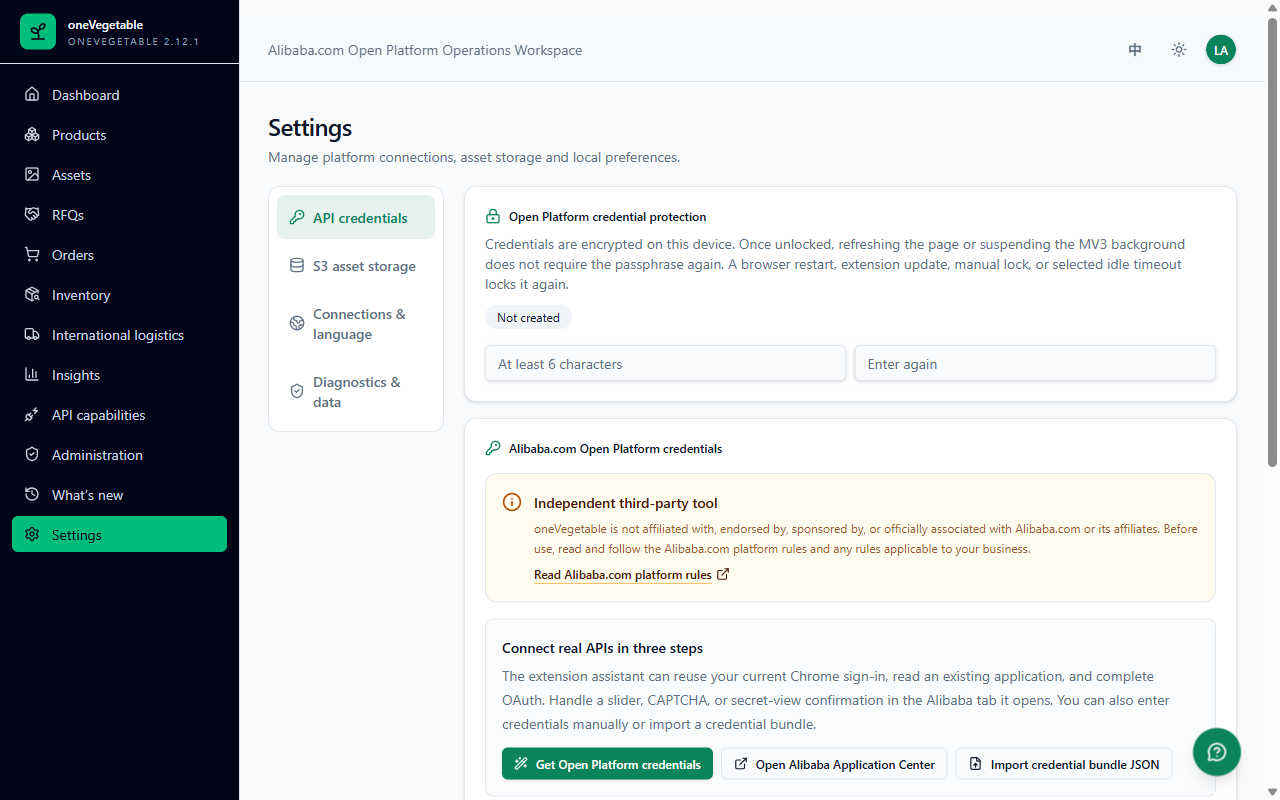
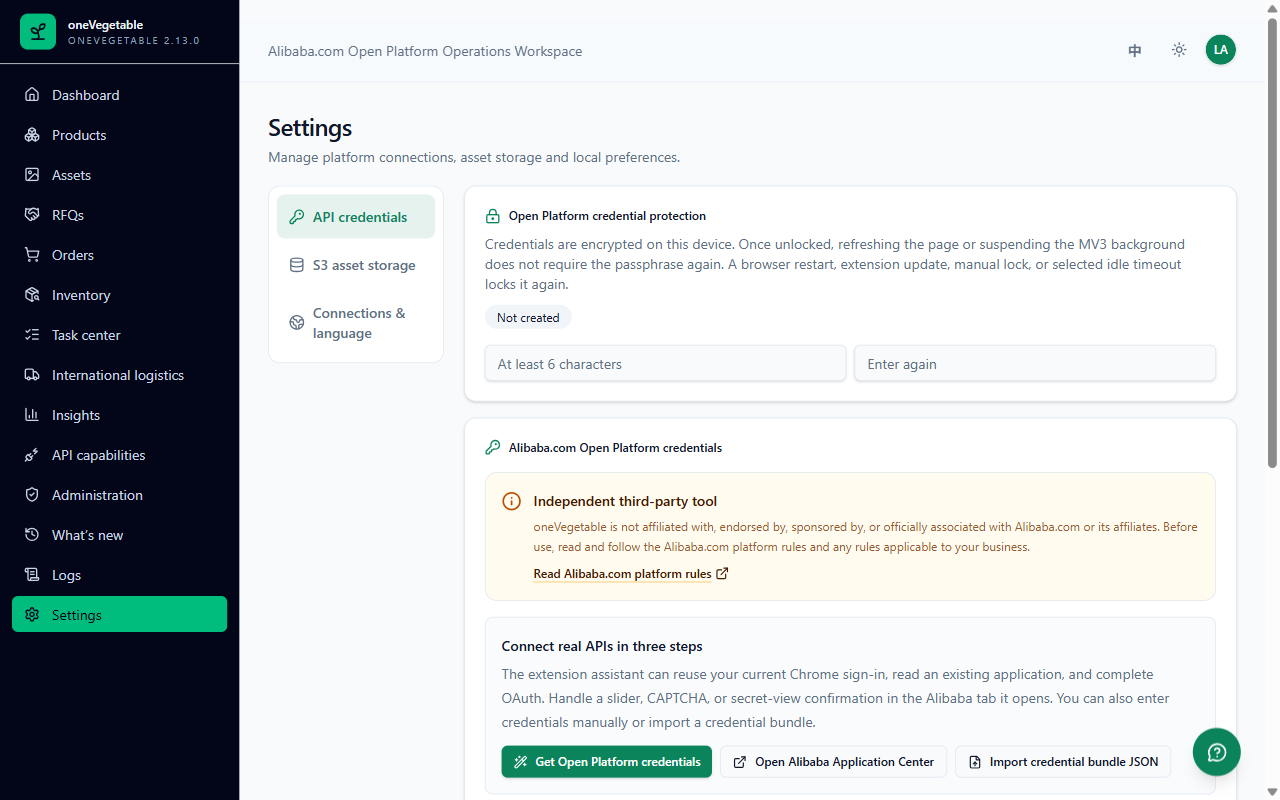
test(release): verify 2.13.0 upgrade package and bilingual store assets

diff --git a/scripts/verify-extension-upgrade.ts b/scripts/verify-extension-upgrade.ts
@@ -254,6 +254,8 @@ async function verifyUpgrade(path: string): Promise<void> {
           typeof message.operation === 'string' &&
           'requestId' in message
         ) {
+          // Diagnostics are extension-local; keep the actual worker implementation in this check.
+          if (message.operation === 'getDiagnostics') return original(message);
           const data: unknown = (reads as Record<string, unknown>)[message.operation];
           return Promise.resolve(
             data === undefined
@@ -312,6 +314,8 @@ async function verifyUpgrade(path: string): Promise<void> {
       await expect(center.getByText('结果不明', { exact: true })).toBeVisible();
       await expect(center.getByRole('button', { name: '核对结果', exact: true })).toBeVisible();
       checks.push(`${version}: interrupted task kept for manual verification, not automatically resent`);
+      await center.getByRole('button', { name: '关闭详情', exact: true }).click();
+      await expect(center).toBeHidden();
     }
     report.stage = 'verify upgraded task and log navigation';
     await next.page.goto(`${next.origin}/options.html#/tasks`);

diff --git a/docs/release-2.13.0-readiness.md b/docs/release-2.13.0-readiness.md
@@ -12,15 +12,25 @@
 
 ## 发布检查
 
-- [ ] 六个 workspace、应用内双语版本说明及商店材料同步为 2.13.0。
-- [ ] Windows 完整检查：格式、Lint、i18n、契约漂移、离线审计、类型、全量单测和三端构建。
-- [ ] 固定同一构建完成 Web/正式 MV3、BFF replay、Node 凭据和 Worker 隔离测试。
-- [ ] 从原始 2.12.1 ZIP 完成隔离 Profile 升级；保留加密配置、偏好和任务，不自动恢复中断写入。
-- [ ] 最终 ZIP、SHA-256、无凭据/Mock/源码映射扫描、权限及商店合规检查。
-- [ ] 刷新中英文各四张正式扩展截图，空白 Profile，不含测试账号、密钥或模拟商品。
+- [x] 六个 workspace、应用内双语版本说明及商店材料同步为 2.13.0。
+- [x] Windows `pnpm check`：格式、Lint（0 error / 30 warning）、i18n、契约漂移、134 项离线审计、50/50 replay、类型、269 文件 / 1,802 项单测和三端构建通过。
+- [x] 固定同一构建完成 Web/正式 MV3 **97 项** E2E（单 worker、无重试或跳过，5.5 分钟）；BFF replay 2 项、Node 凭据双语 2 项、Worker/D1 21 项通过。
+- [x] 从原始 2.12.1 ZIP 完成隔离 Profile 升级，20 项检查通过；加密凭据、S3 设备密钥、语言/主题、列偏好和任务保留，不自动恢复中断写入。
+- [x] 最终 ZIP、SHA-256、无凭据/Mock/源码映射扫描、权限及商店合规检查。额外扫描 `.env`、`.env.free` 和授权包中的 7 个本地敏感值，均未进入 ZIP；输出不记录具体值。
+- [x] 刷新并逐张查看中英文各四张正式扩展截图，1280×800，空白 Profile，不含测试账号、密钥或模拟商品。
 
 ## 产物
 
-目标 ZIP：`artifacts/one-vegetable-v2.13.0-chrome-mv3.zip`，检查完成后在此记录最终校验值、包体和报告。
+ZIP：`artifacts/one-vegetable-v2.13.0-chrome-mv3.zip`，**1,146,182 字节 / 184 文件**。
+
[1 lines of base64/hex data omitted]
+
+- 解包：4,094,113 字节；后台：99,349；options eager JS：190,180；共享 i18n：307,326。所有原预算通过，解包仅余 5,887 字节，下一迭代需先优化而非放宽门槛。
+- 最终 ZIP 内 184 个文件逐一与已通过 E2E 的固定构建比对一致。测试后直接打包该构建，没有重新构建覆盖；校验报告：`artifacts/release-2.13.0-package-verification.json`。
+- 升级报告：`artifacts/extension-upgrade/52bcd0a8-25d1-4fb2-8dc8-b9265d861c17/report.json`。
+- 升级脚本首次新增日志检查时没有关闭应用级传输抽屉，导致日志页面处于遮罩后；同时旧离线拦截误将本地 `getDiagnostics` 当作不支持的网关操作。修复测试为先关闭抽屉、本地诊断走真实扩展 worker 后，20 项全部通过；没有放宽断言或修改生产逻辑。
[1 lines of base64/hex data omitted]
+- 检查日志：`artifacts/release-2.13.0-*.log`；截图：`store-listing/assets/screenshots/zh-CN/` 和 `en-US/`；打包后的上架资料：`artifacts/store-listing/`。
+- Windows Node 24.16.0、pnpm 11.20.0。BFF 回放沿用隔离端口 18796；本机 5173/8787 真实服务未停止，元信息确认 `gatewayMode=real`、版本 2.13.0。
 
 保持最终 ZIP 不超过 1,500,000 字节、解包不超过 4,100,000 字节及现有分块限制。旧版本包不覆盖。中英文说明见 `store-listing/zh_CN.md`、`store-listing/en.md`；提交清单见 [商店提交清单](store-submission.md)。
